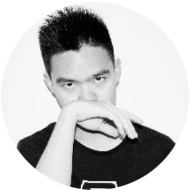
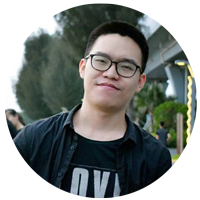
更新工作内筒

diff --git a/index.html b/index.html
@@ -27,113 +27,159 @@
       
     </header>
     <section>
-      <h2><b>自我介绍</b></h2>
-      <p>
-        济南大学 2019届本科毕业生，专业是计算机科学与技术，在三年本科生导师制期间，学习了图像处理的相关知识。拥有一定的项目开发经验，具备发散性思维。
-      </p>
-
       <h2><b>教育经历</b></h2>
       <h3 style="margin:0 0 5px;">济南大学 <b><span style="float:right;">2015年9月 - 2019年6月 </span></b></h3> 
       <h4>计算机科学与技术 本科 信息科学与工程</h4>
       <ul>
-        <li> GPA：3.4 / 4.0（专业前 10 %）| 荣誉奖项：校二等奖学金 ( 2015-2016 )，校一等奖学金 ( 2018-2019 ) </li>
-        <li> 专业课程：数据结构 (98)，计算机网络 (87)，操作系统 (84)，组成原理 (81)，程序设计基础 (89)，全部专业课平均分86+ </li>
-        <li> 专业实践：人工智能，模式识别，操作系统，组成原理，数据结构，程序设计，电路设计，HTML，JSP等综合实践均是95+ </li>
+        <li> GPA:3.4 / 4.0(专业前 10 %)| 荣誉奖项:校二等奖学金 ( 2015-2016 ),校一等奖学金 ( 2018-2019 ) </li>
+        <li> 专业课程:数据结构 (98),计算机网络 (87),操作系统 (84),组成原理 (81),程序设计基础 (89),全部专业课平均分86+ </li>
+        <li> 专业实践:人工智能,模式识别,操作系统,组成原理,数据结构,程序设计,电路设计,HTML,JSP等综合实践均是95+ </li>
       </ul>
      
       <h2><b>工作经历</b></h2>
-      <h3 >基于视觉的机械钥匙的齿号检测 <b><span style="float:right;">2019年7月 - 2020年11月</span></b></h3> 
+      <h3 >西安知象光电科技有限公司(深圳) <b><span style="float:right;">2022年10月 - 2024年6月</span></b></h3> 
+      <h4><b>工作内容</b></h4>
       <ul>
-        <li> 工作内容：现阶段的市面上的钥匙拷贝都是基于探针检测的，我们尝试使用视觉的方式，对钥匙进行无接触式的齿号检测，取得了一定的成果。
-          对于磨损严重的钥匙，为经验丰富的锁匠，提供参考线，进而得到更准确的齿号数据。 </li>
-        <li> 项目展示：<a href="https://v.qq.com/x/page/o30519e9ur7.html">https://v.qq.com/x/page/o30519e9ur7.html</a> </li>
+        <li> 负责开发、优化和维护焊接识别算法,以提升自动化焊接的精准度和效率。</li>
+        <li> 维护和改进焊接相关算法,涵盖轨迹融合、姿态计算、tekla修正、拍照位计算和外部轴聚类算法等。</li>
       </ul>
-      <h3 >TOF摄像头的三维定位探索 <b><span style="float:right;">2020年9月 - 2020年11月 </span></b></h3> 
+      <h4><b>项目情况</b></h4>
       <ul>
-        <li> 工作内容：未来规划的项目中涉及到机械臂的抓取，目前暂定使用TOF摄像头进行抓取物的三维定位， 
-          对EPC和Detrump公司的两个TOF摄像头进行了简单的上手测试，通过阅读开发文档，并学习PCL库，进行一些小实例的开发。 </li>
-        <li> 项目展示：<a href="https://www.bilibili.com/video/BV1Ua4y1L7yj">https://www.bilibili.com/video/BV1Ua4y1L7yj</a> </li>
+        <li> <b>焊线轨迹融合算法开发:</b> 利用空间几何关系将多条临近的同向焊线轨迹合并,确保焊缝的一致性和完整性。</li>
+        <li> <b>焊缝识别算法开发及优化:</b> 基于Tracer P1工业相机的点云成像,通过几何分析和点云处理精确识别焊接位置。</li>
+        <li> <b>拍照位计算和外部轴聚类:</b> 利用模型中焊线几何位置,计算相机最佳拍摄位置,对外部轴位置聚类,减少运动距离。</li>
+        <li> <b>现场异常分析和处理:</b> 针对复杂现场情况,进行深入调研、技术评估和解决方案设计,输出相应的研讨总结报告。</li>
+        <li> <b>文书精灵Aigc助手:</b> 基于ChatGPT API开发文书助手,支持文档的润色、多语言翻译、技术问答、代码注释等功能。</li>
       </ul>
-      <h3 >基于直方图、曲线相似度的针尖位置检测 <b><span style="float:right;">2020年7月 - 2020年8月 </span></b></h3> 
+      
+      <h3 >深圳了然视觉科技有限公司 <b><span style="float:right;">2020年12月 - 2022年9月</span></b></h3> 
+      <h4><b>工作内容</b></h4>
       <ul>
-        <li> 工作内容：在生产动物定位芯片时，为了保证芯片的起始位置位置一致，我们需要对注射器的针头的位置进行规范化。
-          我们通过背部打光的方式，再基于直方图和曲线相似度进行位置的确定。
-          由于项目只是在验证阶段，并没有进行实际的落地运行，
-          因此只进行到可行性分析，实际运行需要解决的问题有待考虑。 </li>
-        <li> 项目展示：<a href="https://www.bilibili.com/video/BV1vy4y1B74Q">https://www.bilibili.com/video/BV1vy4y1B74Q</a> </li>
+        <li> 负责项目前期的需求分析、技术方案评审、算法设计及文档编写。</li>
+        <li> 协助软件工程师完成算法集成,解决现场调试问题。/li>
+        <li> 设计、实现、封装、测试、改进及维护视觉算法。</li>
+        <li> 编写设计需求规格、实现方案、测试用例及相关技术文档。</li>
+      </ul>
+      <h4><b>项目情况</b></h4>
+      <ul>
+        <li> <b>车体&台车骨骼精度检测:</b>采集车体、台车定位销的点云,检测点云中的圆孔、长圆孔、矩形孔、交界面的位置,评估稳定性。</li>
+        <li> <b>钢筋点云焊接视觉引导:</b>采集交叉钢筋和肋板的点云,检测钢筋的交叉点、肋板的交界面拐角的位置,引导机械臂自动焊接。</li>
+        <li> <b>托盘识别与位置检测:</b>使用英特尔的D435i拍摄蓝色塑料托盘,识别并定位托盘叉孔的中心位置,计算出纠偏信息返回AGV。</li>
+        <li> <b>透明涂胶检测:</b>设计合理打光方案,识别黄色波纹纸上的热熔胶,实时检测胶宽,判断是否断胶、漏胶、无胶等情况。</li>
+        <li> <b>智能视觉平台的视觉算法开发:</b>开发视觉基础算子,包括二维图像和三维点云的分类、定位、检测、分割等模块化操作。</li>
+      </ul>
+      
+      <h3 >凯扬大为科技(深圳)有限公司 <b><span style="float:right;">2019年07月 - 2020年11月</span></b></h3> 
+      <h4><b>工作内容</b></h4>
+      <ul>
+        <li> 选购并测试高性能摄像头,优化光源位置,设计采集装置的外部结构,搭建实验环境</li>
+        <li> 协助软件工程师完成算法集成,解决现场调试问题。</li>
+        <li> 分析用户反馈数据,通过机器学习和模式识别技术迭代优化算法,提高识别精度和处理效率,确保产品稳定性和可靠性</li>
+      </ul>
+      <h4><b>取得成果</b></h4>
+      <ul>
+        <li> 针对磨损严重的钥匙,设计并实现了参考线辅助验证功能,显著提升齿号识别的精度,有效降低无效雕刻率</li>
+        <li> 支持超过300台数控钥匙机的量产,视觉读齿功能日均使用量保持在20次左右,成功识别透切、内切、外切等多种复杂齿号形态</li>
       </ul>
 
       <h2><b>比赛经历</b></h2>
-      <h3 >安全AI挑战者计划第五期：伪造图像对抗攻击 <b><span style="float:right;">2020年9月 - 2020年10月 </span></b></h3> 
+      <h3 >安全AI挑战者计划第五期:伪造图像对抗攻击 <b><span style="float:right;">2020年9月 - 2020年10月 </span></b></h3> 
       <ul>
-        <li> 比赛内容：这是一个针对证件资质文档类图像的伪造图像对抗攻击竞赛，通过对原始图像的特定候选区域进行伪造篡改（P图），做到视觉无伪造痕迹。 </li>
-        <li> 比赛网址：<a href="https://tianchi.aliyun.com/competition/entrance/531812/introduction">https://tianchi.aliyun.com/competition/entrance/531812/introduction</a> </li>
-        <li> 解决策略：对于伪造图像，我们尝试了基于opencv的污点修复，并全图取字叠加的策略，但效果并不太理想。
-          所以主要使用人工P图的策略，凭借着优秀的P图能力，并运用一定的图像后处理以及多次压缩jpg的方法，我们取得了一个不错的成绩</li>
-        <li> 排名情况：13 / 1365 </li>
+        <li> 比赛内容:这是一个针对证件资质文档类图像的伪造图像对抗攻击竞赛,通过对原始图像的特定候选区域进行伪造篡改(P图),做到视觉无伪造痕迹。 </li>
+        <li> 比赛网址:<a href="https://tianchi.aliyun.com/competition/entrance/531812/introduction">https://tianchi.aliyun.com/competition/entrance/531812/introduction</a> </li>
+        <li> 解决策略:对于伪造图像,我们尝试了基于opencv的污点修复,并全图取字叠加的策略,但效果并不太理想。
+          所以主要使用人工P图的策略,凭借着优秀的P图能力,并运用一定的图像后处理以及多次压缩jpg的方法,我们取得了一个不错的成绩</li>
+        <li> 排名情况:13 / 1365 </li>
       </ul>
       <h3 >2018 微软"创新杯" <b><span style="float:right;">2017年10月 - 2018年5月 </span></b></h3> 
       <ul>
-        <li> 项目内容：基于双目视觉的三维重建和云分享平台Vselfdom </li>
-        <li> 项目初衷：三维重建，一般是借助3DMax等软件绘制，但使用技术门槛太高。而专业的3D扫描设备硬件成本又过高 </li>
-        <li> 解决方案：通过使用具有特殊纹理信息的纸，来制作实体模型，并用双目摄像头进行环绕拍摄。最终实现实体模型的数字化。
-            使用了开源库Opencv和PCL，由于人为引入了纹理信息，使的双目匹配的难度下降，精度提升，对设备的硬件要求也大大下降。 
+        <li> 项目内容:基于双目视觉的三维重建和云分享平台Vselfdom </li>
+        <li> 项目初衷:三维重建,一般是借助3DMax等软件绘制,但使用技术门槛太高。而专业的3D扫描设备硬件成本又过高 </li>
+        <li> 解决方案:通过使用具有特殊纹理信息的纸,来制作实体模型,并用双目摄像头进行环绕拍摄。最终实现实体模型的数字化。
+            使用了开源库Opencv和PCL,由于人为引入了纹理信息,使的双目匹配的难度下降,精度提升,对设备的硬件要求也大大下降。 
         </li>
-        <li> 项目展示：<a href="https://www.bilibili.com/video/av22373480">https://www.bilibili.com/video/av22373480</a> </li>
-        <li> 取得成绩：2018 Imagine Cup微软"创新杯"球科技大赛 中国区三等奖  </li>
+        <li> 项目展示:<a href="https://www.bilibili.com/video/av22373480">https://www.bilibili.com/video/av22373480</a> </li>
+        <li> 取得成绩:2018 Imagine Cup微软"创新杯"球科技大赛 中国区三等奖  </li>
       </ul>
     
       <h2><b>研究经历</b></h2>
       <h3 > 双臂机器人视觉定位 <b><span style="float:right;">2016年9月 - 2018年9月 </span></b></h3> 
       <ul>
-        <li> 研究名称：基于双目视觉的双臂机器人上下直梯的算法研究 </li>
-        <li>研究工作：<br>
-          A 通过双目视觉测距技术确定按键位置，并运用视觉反馈，操作机械臂去按压电梯 <br> 
-          B 通过在电梯内沿粘贴标记块，依据标记块的距离程度来判断电梯门的开闭 <br>
-          C 在电梯门完全打开时，控制机器人自主平稳进入电梯 <br>
-          D 通过识别显示屏的数字，来确定自身所在的楼层位置 <br> 
+        <li> 研究名称:基于双目视觉的双臂机器人上下直梯的算法研究 </li>
+        <li>研究工作:<br>
+          A 通过双目视觉测距技术确定按键位置,并运用视觉反馈,操作机械臂去按压电梯 <br> 
+          B 通过在电梯内沿粘贴标记块,依据标记块的距离程度来判断电梯门的开闭 <br>
+          C 在电梯门完全打开时,控制机器人自主平稳进入电梯 <br>
+          D 通过识别显示屏的数字,来确定自身所在的楼层位置 <br> 
         </li>
-        <li> 项目展示：<a href="https://www.bilibili.com/video/av27097511">https://www.bilibili.com/video/av27097511</a> </li>
-        <li> 取得成果： <br>
+        <li> 项目展示:<a href="https://www.bilibili.com/video/av27097511">https://www.bilibili.com/video/av27097511</a> </li>
+        <li> 取得成果: <br>
           A 相关工作顺利入选为“2017国家级大学生创新创业训练计划项目” <br>
-          B 以第二作者身份在SPAC 2018会议上发表论文，并获得最佳论文 <br>
+          B 以第二作者身份在SPAC 2018会议上发表论文,并获得最佳论文 <br>
           《Positioning and Pressing Elevator Button by Binocular Vision and Robot Manipulator》 <br>
         </li>
+      </ul>
+      
+      <h2><b>兴趣开发</b></h2>
+      <h3 >TOF摄像头的三维定位探索 <b><span style="float:right;">2020年9月 - 2020年11月 </span></b></h3> 
+      <ul>
+        <li> 工作内容:未来规划的项目中涉及到机械臂的抓取,目前暂定使用TOF摄像头进行抓取物的三维定位, 
+          对EPC和Detrump公司的两个TOF摄像头进行了简单的上手测试,通过阅读开发文档,并学习PCL库,进行一些小实例的开发。 </li>
+        <li> 项目展示:<a href="https://www.bilibili.com/video/BV1Ua4y1L7yj">https://www.bilibili.com/video/BV1Ua4y1L7yj</a> </li>
+      </ul>
+      <h3 >基于直方图、曲线相似度的针尖位置检测 <b><span style="float:right;">2020年7月 - 2020年8月 </span></b></h3> 
+      <ul>
+        <li> 工作内容:在生产动物定位芯片时,为了保证芯片的起始位置位置一致,我们需要对注射器的针头的位置进行规范化。
+          我们通过背部打光的方式,再基于直方图和曲线相似度进行位置的确定。
+          由于项目只是在验证阶段,并没有进行实际的落地运行,
+          因此只进行到可行性分析,实际运行需要解决的问题有待考虑。 </li>
+        <li> 项目展示:<a href="https://www.bilibili.com/video/BV1vy4y1B74Q">https://www.bilibili.com/video/BV1vy4y1B74Q</a> </li>
+      </ul>
+      <h3 > 基于颜色空间和斜率的手势识别  <b><span style="float:right;">2018年9月 - 2018年11月  </span></b></h3> 
+      <ul>
+        <li> 项目内容:通过颜色空间分割出手部区域,利用Opencv进行轮廓检测,基于相邻检测点的斜率确定指尖位置。</li>
+        <li> 项目展示:<a href="https://www.bilibili.com/video/av27113177"> https://www.bilibili.com/video/av27113177</a> </li>
+      </ul>
+      <h3 > 基于计算机视觉挑战别踩白块   <b><span style="float:right;">2018年8月 - 2018年9月   </span></b></h3> 
+      <ul>
+        <li> 项目内容:利用计算机视觉进行色块区域颜色识别,分析越来越快的下落速度,并操作鼠标进行模拟点击。  </li>
+        <li> 项目展示:<a href="https://www.bilibili.com/video/av25068036"> https://www.bilibili.com/video/av25068036</a> </li>
+      </ul>
+      <h3 > 虚拟现实Untiy射击游戏  <b><span style="float:right;">2018年7月 - 2018年8月  </span></b></h3> 
+      <ul>
+        <li> 项目内容:在山东大学第四届“可视计算”暑期学校期间,运用现学到的Unity编程,进行的简单DIY开发 </li>
+        <li> 项目展示:<a href="https://www.bilibili.com/video/av27342420"> https://www.bilibili.com/video/av27342420</a> </li>
       </ul>
       
       <h2><b>毕业设计</b></h2>
       <h3 > 基于图像的语义分割及应用研究 <b><span style="float:right;">2019年3月 - 2019年6月  </span></b></h3> 
       <ul>
-        <li> 项目内容：结合神经网络和边缘检测，优化现有语义分割的模型DeepLab，获得更准确的分割边界，并进行相应的应用研究开发。 </li>
-        <li> 项目创新点： <br>
-          A 算法创新：充分结合传统图像处理方法和卷积神经网络的优点，提出一种基于边缘信息的语义分割优化算法，
-          能更好地纠正边缘 像素的错误分类。实验表明：在同样的分割效果的前提下，速度提升6倍。 <br> 
-          B 应用创新：将语义分割结果运用在视觉特效领域，降低了人们使用AE等软件来制作视觉特效的难度，创新性地开发出：图片转绘 画、图片立体化、视频剪影化等有趣应用。 <br> 
+        <li> 项目内容:结合神经网络和边缘检测,优化现有语义分割的模型DeepLab,获得更准确的分割边界,并进行相应的应用研究开发。 </li>
+        <li> 项目创新点: <br>
+          A 算法创新:充分结合传统图像处理方法和卷积神经网络的优点,提出一种基于边缘信息的语义分割优化算法,
+          能更好地纠正边缘 像素的错误分类。实验表明:在同样的分割效果的前提下,速度提升6倍。 <br> 
+          B 应用创新:将语义分割结果运用在视觉特效领域,降低了人们使用AE等软件来制作视觉特效的难度,创新性地开发出:图片转绘 画、图片立体化、视频剪影化等有趣应用。 <br> 
         </li>
-        <li> 取得成绩：济南大学2019届校级优秀毕业论文</li>
+        <li> 取得成绩:济南大学2019届校级优秀毕业论文</li>
       </ul>
       
-      <h2><b>项目开发</b></h2>
-      <h3 > 基于颜色空间和斜率的手势识别  <b><span style="float:right;">2018年9月 - 2018年11月  </span></b></h3> 
+
+      <h2><b>荣誉奖项</b></h2>
       <ul>
-        <li> 项目内容：通过颜色空间分割出手部区域，利用Opencv进行轮廓检测，基于相邻检测点的斜率确定指尖位置。</li>
-        <li> 项目展示：<a href="https://www.bilibili.com/video/av27113177"> https://www.bilibili.com/video/av27113177</a> </li>
-      </ul>
-      <h3 > 基于计算机视觉挑战别踩白块   <b><span style="float:right;">2018年8月 - 2018年9月   </span></b></h3> 
-      <ul>
-        <li> 项目内容：利用计算机视觉进行色块区域颜色识别，分析越来越快的下落速度，并操作鼠标进行模拟点击。  </li>
-        <li> 项目展示：<a href="https://www.bilibili.com/video/av25068036"> https://www.bilibili.com/video/av25068036</a> </li>
-      </ul>
-      <h3 > 虚拟现实Untiy射击游戏  <b><span style="float:right;">2018年7月 - 2018年8月  </span></b></h3> 
-      <ul>
-        <li> 项目内容：在山东大学第四届“可视计算”暑期学校期间，运用现学到的Unity编程，进行的简单DIY开发 </li>
-        <li> 项目展示：<a href="https://www.bilibili.com/video/av27342420"> https://www.bilibili.com/video/av27342420</a> </li>
+        <h3 ><b></b></h3> 
+        <li> 西安知象光电有限公司 2023年年度优秀员工 <span style="float:right;">2024年01月</span></li>
+        <li> 知象光电第一届“知象杯”AIGC挑战赛 三等奖<span style="float:right;">2023年07月</span></li>
+        <li> 深圳了然视觉科技有限公司 2021年年度优秀员工<span style="float:right;">2022年01月</span></li>
+        <li> 阿里安全AI挑战者计划第五期伪造图像对抗攻击(图片篡改赛道) Top20 <span style="float:right;">2020年10月</span></li>
+        <li> 济南大学2019届校级优秀毕业论文 <span style="float:right;">2019年06月</span></li>
+        <li> 微软”创新杯”全球科技大赛中国区总决赛 三等奖<span style="float:right;">2018年05月</span></li>
+        <li> 语言: 英语 (CET-6),中文(母语),粤语(基础)  <br>
       </ul>
 
       <h2><b>专业技能</b></h2>
       <ul>
-        <li> 技能： C++ (精通)，Opencv(熟练)，C# (熟悉)，Python(熟悉)，Tensorflow(基础) </li>
-        <li> 语言： 英语 (CET-6)，中文(母语)，粤语(基础)  <br>
+        <li> 技能: C++ (精通),Opencv(熟练),C# (熟悉),Python(熟悉),Tensorflow(基础) </li>
+        <li> 语言: 英语 (CET-6),中文(母语),粤语(基础)  <br>
       </ul>
 
     </section>
